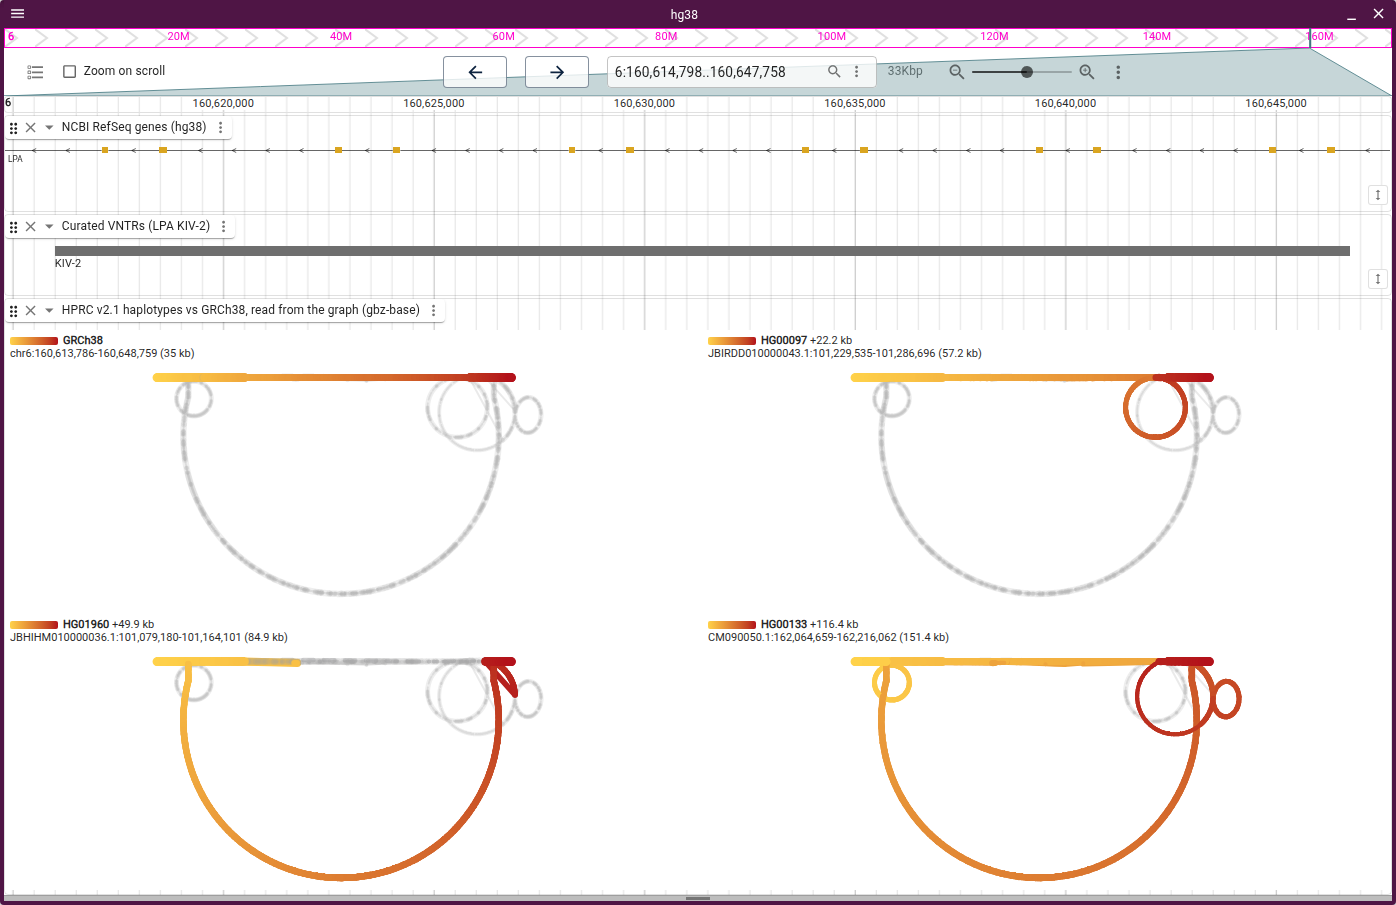
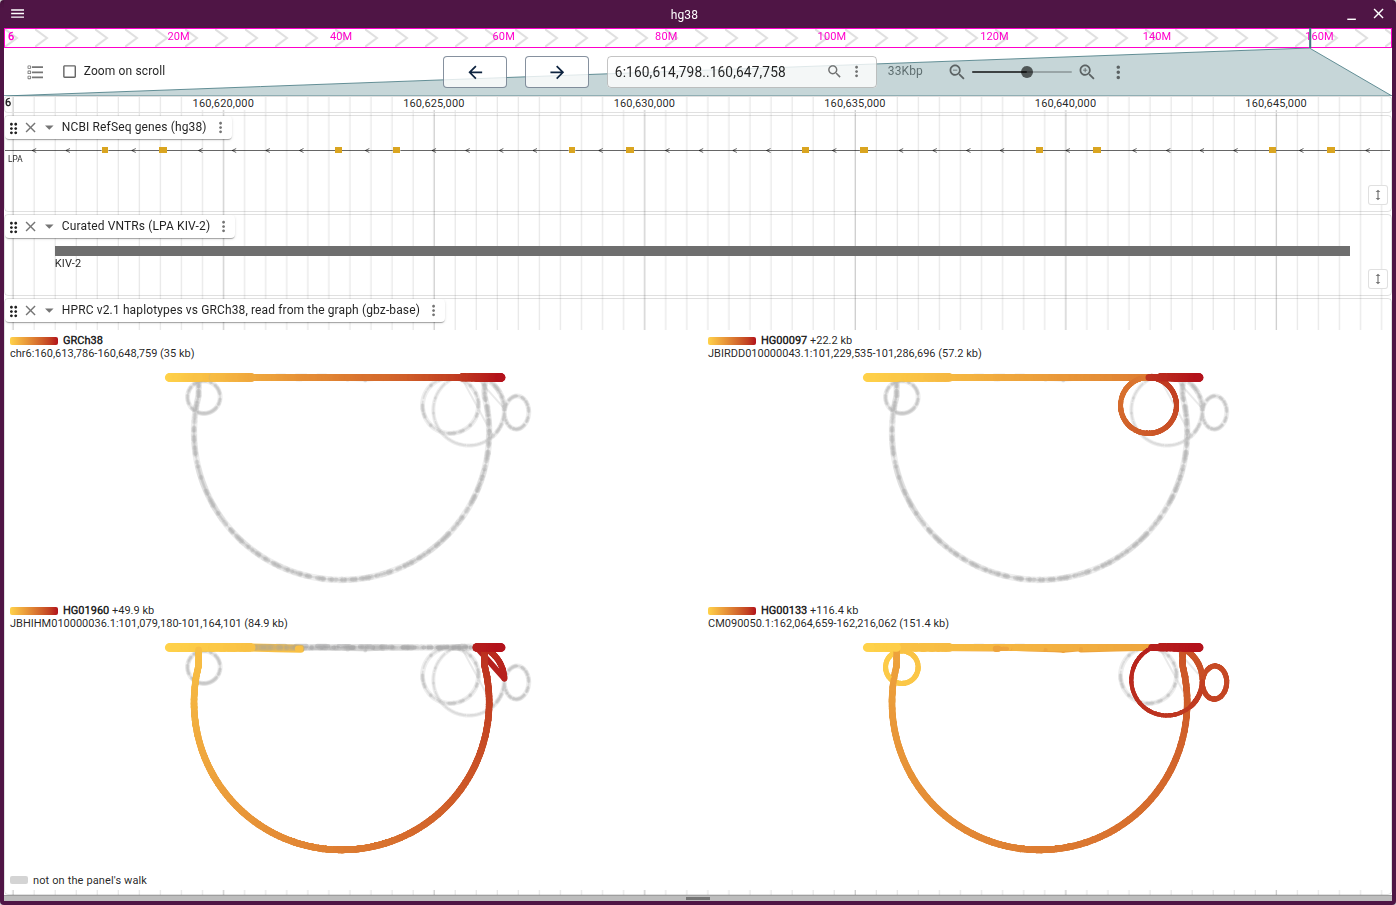
Faceted pane keys its faded grey on a line under the panels
Each facet title keys its walk, but nothing said what the pale nodes in
every panel were. One key line under the grid, spanning its columns, now
reads 'not on the panel's walk' (and 'off the reference' where drawn);
the model reserves its height, a faceted track grows to fit it, and the
SVG export draws it too. The faded swatch samples the backdrop grey
darker, as overlapping faded strokes read.

diff --git a/src/GraphGenomeView/pane/fitViews.ts b/src/GraphGenomeView/pane/fitViews.ts
@@ -1,4 +1,5 @@
 import {
+  FACET_GAP_PX,
   FACET_PAD_PX,
   facetCells,
   facetGrid,
@@ -116,6 +117,9 @@ import type { FileLocation } from '@jbrowse/core/util/types'
 
 const MAX_SHOWN_BASES = 20
 export const TOOLTIP_INSET_PX = 8
+export const FACET_KEY_ROW_PX = 19
+// the facet key line and the grid gap above it
+export const FACET_KEY_PX = FACET_GAP_PX + FACET_KEY_ROW_PX
 // a two-line tooltip and its inset
 const TOOLTIP_ROOM_PX = 48
 // a squeezed stack of panels thins no further, as one tube map does
@@ -432,8 +436,11 @@ export const withFitViews = withHostViews
           })
         : undefined
     },
+    // the facet grid's room leaves the key line under it
     get facetGrid() {
-      return this.facetGridIn(self.host ? this.canvasHeight : this.paneCeiling)
+      return this.facetGridIn(
+        (self.host ? this.canvasHeight : this.paneCeiling) - FACET_KEY_PX,
+      )
     },
     // The hover tooltip's distance from the pane's right edge: in the corner,
     // unless the legend reaches down into its room, and then beside it. A
@@ -461,7 +468,7 @@ export const withFitViews = withHostViews
       }
       const grid = this.facetGrid
       if (grid) {
-        return Math.max(MIN_CANVAS_HEIGHT, grid.total)
+        return Math.max(MIN_CANVAS_HEIGHT, grid.total + FACET_KEY_PX)
       }
       // never shorter than the legend, which a flat drawing would clip
       const floor = Math.max(

diff --git a/src/GraphGenomeView/components/FacetPanels.tsx b/src/GraphGenomeView/components/FacetPanels.tsx
@@ -8,7 +8,8 @@ import { observer } from 'mobx-react'
 import { hoverLayerStyle } from './HoverLayer'
 import { LegendRowView } from './Legend'
 import { useWheelZoom } from './usePaneGestures'
-import { walkKeyRow } from '../legendSections'
+import { facetKeyRows, walkKeyRow } from '../legendSections'
+import { FACET_KEY_ROW_PX } from '../pane/fitViews'
 
 import type { PaneHandlers } from './usePaneGestures'
 import type { GraphPaneModel } from '../model'
@@ -44,6 +45,17 @@ const titleStyle = {
 }
 
 const panelStyle = { position: 'relative' as const }
+
+const keyStyle = {
+  gridColumn: '1 / -1',
+  height: FACET_KEY_ROW_PX,
+  padding: '2px 6px',
+  boxSizing: 'border-box' as const,
+  display: 'flex',
+  gap: 14,
+  fontSize: 11,
+  lineHeight: '15px',
+}
 
 const FacetPanel = observer(function FacetPanel({
   model,
@@ -181,6 +193,17 @@ const FacetPanels = observer(function FacetPanels({
           handlers={handlers}
         />
       ))}
+      <div
+        style={{
+          ...keyStyle,
+          gridRow: Math.floor(Math.max(...place.cells) / columns) + 2,
+        }}
+        data-testid="graph-facet-key"
+      >
+        {facetKeyRows(model).map(row => (
+          <LegendRowView key={row.key} row={row} />
+        ))}
+      </div>
     </div>
   )
 })

diff --git a/src/GraphGenomeView/legendSections.ts b/src/GraphGenomeView/legendSections.ts
@@ -42,6 +42,9 @@ export const BAR_PX = 48
 
 // getNodeColor's grey for a node the ramp cannot place
 export const UNPLACED_SWATCH = 'rgb(160, 160, 160)'
+// LIFT_BACKDROP_CSS reads paler alone than faded strokes do where they
+// overlap, so the key samples it darker
+const FADED_SWATCH = 'rgba(160, 160, 160, 0.45)'
 
 const STRIP_SAMPLES = 6
 const TUBE_SWATCH_PX = 7
@@ -496,13 +499,21 @@ function walkReadoutRows(model: GraphPaneModel): LegendRow[] {
           ),
         ]
       : []),
-    fillRow(
-      'faded',
-      LIFT_BACKDROP_CSS,
-      `not on ${model.liftedWalksLabel}`,
-      width,
-    ),
+    fillRow('faded', FADED_SWATCH, `not on ${model.liftedWalksLabel}`, width),
   ]
+}
+
+// The faceted pane's one key line under its panels: each panel's title keys
+// its walk, so this keys only what every panel greys
+export function facetKeyRows(model: GraphPaneModel): LegendRow[] {
+  return model.facetPanels
+    ? [
+        ...(model.liftPaintsOffReference
+          ? [fillRow('lift-off', REFERENCE_RAMP_ALT_CSS, 'off the reference')]
+          : []),
+        fillRow('faded', FADED_SWATCH, "not on the panel's walk"),
+      ]
+    : []
 }
 
 // The keys in the order the panel stacks them, top first

diff --git a/src/GraphGenomeView/model.test.ts b/src/GraphGenomeView/model.test.ts
@@ -25,6 +25,7 @@ import { LAUNCH_LABEL } from '@jbrowse/core/ui'
 import { applySnapshot, getSnapshot } from '@jbrowse/mobx-state-tree'
 
 import { walkRowTrees } from './components/WalkRowsOverlay'
+import { facetKeyRows } from './legendSections'
 import { MAX_GRAPH_REGION_BP, formatSpanBp } from './model'
 import { walkRowGeneKey } from './pane/fitViews'
 import { EMPTY_BATCH, SELECT_BRIGHTEN } from './pane/paneBase'
@@ -3240,7 +3241,11 @@ describe('walk rows', () => {
     model.setFacet('walk')
     const grid = model.facetGrid!
     expect(model.viewBox).toEqual({ width: grid.width, height: grid.height })
-    expect(model.canvasHeight).toBe(Math.max(160, grid.total))
+    // the grid, then the key line under it
+    expect(model.canvasHeight).toBe(Math.max(160, grid.total + 8 + 19))
+    expect(facetKeyRows(model).map(r => r.label)).toEqual([
+      "not on the panel's walk",
+    ])
     expect(model.scale).toBeCloseTo(grid.scale, 10)
     expect(model.scale).not.toBeCloseTo(whole, 10)
     expect(

diff --git a/src/LinearGraphDisplay/model.ts b/src/LinearGraphDisplay/model.ts
@@ -31,6 +31,7 @@ import {
   MAX_GRAPH_REGION_BP,
   formatSpanBp,
 } from '../GraphGenomeView/model'
+import { FACET_KEY_PX } from '../GraphGenomeView/pane/fitViews'
 import {
   configHaplotypes,
   cutsByHaplotype,
@@ -535,8 +536,10 @@ export function stateModelFactory(configSchema: LinearGraphDisplayConfigModel) {
           reaction(
             () => `${self.facetSetting.field} ${self.facetPlacement?.count}`,
             () => {
-              const needs = self.facetGridIn(self.paneCeiling)?.total ?? 0
-              if ((self.facetGrid?.total ?? 0) > self.height) {
+              const needs =
+                (self.facetGridIn(self.paneCeiling - FACET_KEY_PX)?.total ??
+                  0) + FACET_KEY_PX
+              if ((self.facetGrid?.total ?? 0) + FACET_KEY_PX > self.height) {
                 self.setHeight(Math.max(self.height, Math.ceil(needs)))
               }
             },

diff --git a/src/GraphGenomeView/components/PaneSvg.tsx b/src/GraphGenomeView/components/PaneSvg.tsx
@@ -13,6 +13,7 @@ import { paintTubeMap } from './TubeMapOverlay'
 import WalkRowsOverlay from './WalkRowsOverlay'
 import {
   SWATCH_PX,
+  facetKeyRows,
   legendSections,
   swatchWidth,
   walkKeyRow,
@@ -488,8 +489,18 @@ function Facets({
     return null
   }
   const { columns, width, height } = grid
+  const keyY = grid.total + FACET_GAP_PX + 14
+  const key = facetKeyRows(model).map((row, i) =>
+    svgRow(row, `${idPrefix}-facet-key-${i}`),
+  )
+  const keyX = key.map((_, i) =>
+    key.slice(0, i).reduce((x, row) => x + row.width + 14, 6),
+  )
   return (
     <>
+      <g transform={`translate(0 ${keyY})`}>
+        {key.map((row, i) => row.draw(keyX[i]!))}
+      </g>
       {panels.map((lift, i) => {
         const cell = place.cells[i]!
         const x = (cell % columns) * (width + FACET_GAP_PX)
